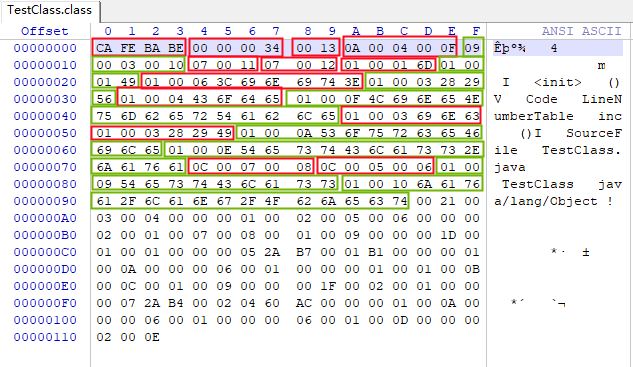
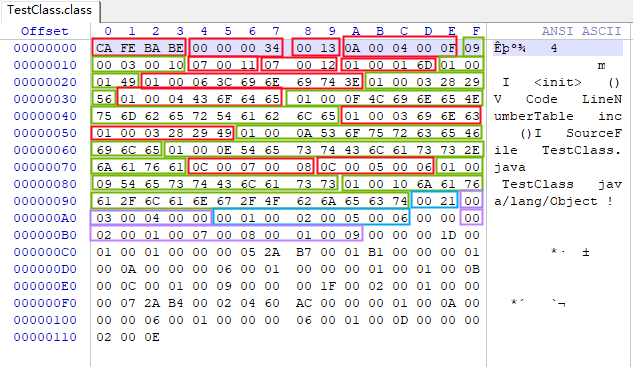
2022-11-01

Changed region(s): [[0.1201, 0.5095, 0.7804, 0.6594]]

diff --git a/读书笔记/《深入理解Java虚拟机》/TestClass.class分析.md b/读书笔记/《深入理解Java虚拟机》/TestClass.class分析.md
@@ -65,47 +65,46 @@ SourceFile: "TestClass.java"
 
 ## 分析
 
+### 魔数
+
 1. `CA FE BA BE`：魔数
 
-2. `00 00 00 34`：十进制数是52，也就是**JDK1.8**。说明这个文件可以被JDK1.6或是以上版本虚拟机执行的Class文件。
+### Class文件的版本
 
-3. `00 13`：即十进制19，常量池容量计数值。代表常量池中有19项常量。可以看到javap输出的文件内容中，Constant pool中一共有18项常量定义。在常量池中0索引项是预留项。
+1. `00 00 00 34`：十进制数是52，也就是**JDK1.8**。说明这个文件可以被JDK1.6或是以上版本虚拟机执行的Class文件。
 
+### 常量池
+
+1. `00 13`：即十进制19，常量池容量计数值。代表常量池中有19项常量。可以看到javap输出的文件内容中，Constant pool中一共有18项常量定义。在常量池中0索引项是预留项。
 4. `0A 00 04 00 0F`：常量池第1项，CONSTANT_Methodref_info类型。
 
    * `0A`：即十进制10，CONSTANT_Methodref_info类型的标志位。
    * `00 04`：指向声明方法的类描述符CONSTANT_Class_info的索引项，这里指向常量池第4项。
    * `00 0F`：指向名称及类型描述符CONSTANT_NameAndType的索引项，这里指向常量池第15项。
-
 5. `09 00 03 00 10`：常量池第2项，CONSTANT_Fieldref_info类型。
 
    * `09`：即十进制9，CONSTANT_Fieldref_info类型的标志位。
    * `00 03`：指向声明字段的类或者接口描述符CONSTANT_Class_info的索引项，这里指向常量池第3项。
    * `00 10`：指向字段描述符CONSTANT_NameAndType的索引项，这里指向常量池第16项。
-
 6. `07 00 11`：常量池第3项，CONSTANT_Class_info类型。
 
    * `07`：即十进制7，CONSTANT_Class_info类型的标志位。
    * `00 11`：指向全限定名常量项CONSTANT_Utf8_info的索引项，这里指向常量池第17项。
-
 7. `07 00 12`：常量池第4项，CONSTANT_Class_info类型。
 
    * `07`：即十进制7，CONSTANT_Class_info类型的标志位。
 
    * `00 12`：指向全限定名常量项CONSTANT_Utf8_info的索引项，这里指向常量池第18项。
-
 8. `01 00 01 6D`：常量池第5项，CONSTANT_Utf8_info类型。
 
    * `01`：即十进制1，CONSTANT_Utf8_info类型的标志位。
    * `00 01`：UTF-8编码的字符串占用的字节数。这里表示1个字节。
    * `6D`：0x6D，在**ASCII表**表中解释为：小写字母`m`。
-
 9. `01 00 01 49`：常量池第6项，CONSTANT_Utf8_info类型。
 
    * `01`：即十进制1，CONSTANT_Utf8_info类型的标志位。
    * `00 01`：UTF-8编码的字符串占用的字节数。这里表示1个字节。
    * `49`：0x49，在**ASCII表**表中解释为：大写字母`I`。
-
 10. `01 00 06 3C 69 6E 69 74 3E`：常量池第7项，CONSTANT_Utf8_info类型。
 
     * `01`：即十进制1，CONSTANT_Utf8_info类型的标志位。
@@ -117,7 +116,6 @@ SourceFile: "TestClass.java"
       * `69`，对应**ASCII表**表中解释为：小写字母`i`
       * `74`，对应**ASCII表**表中解释为：小写字母`t`
       * `3E`，对应**ASCII表**表中解释为：大于号`>`
-
 11. `01 00 03 28 29 56`：常量池第8项，CONSTANT_Utf8_info类型。
 
     * `01`：即十进制1，CONSTANT_Utf8_info类型的标志位。
@@ -126,7 +124,6 @@ SourceFile: "TestClass.java"
       * `28`：对应**ASCII表**表中解释为：开括号`(`
       * `29`：对应**ASCII表**表中解释为：闭括号`)`
       * `56`：对应**ASCII表**表中解释为：大写字母`V`
-
 12. `01 00 04 43 6F 64 65`：常量池第9项，CONSTANT_Utf8_info类型。
 
     * `01`：即十进制1，CONSTANT_Utf8_info类型的标志位。
@@ -136,7 +133,6 @@ SourceFile: "TestClass.java"
       2. `6F`：对应**ASCII表**表中解释为：小写字母`o`
       3. `64`：对应**ASCII表**表中解释为：小写字母`d`
       4. `65`：对应**ASCII表**表中解释为：小写字母`e`
-
 13. `01 00 0F 4C 69 6E 65 4E 75 6D 62 65 72 54 61 62 6C 65 `：常量池第10项，CONSTANT_Utf8_info类型。
 
     * `01`：即十进制1，CONSTANT_Utf8_info类型的标志位。
@@ -157,7 +153,6 @@ SourceFile: "TestClass.java"
       13. `62`：对应**ASCII表**表中解释为：小写字母`b`
       14. `6C`：对应**ASCII表**表中解释为：小写字母`l`
       15. `65`：对应**ASCII表**表中解释为：小写字母`e`
-    
 14. `01 00 03 69 6E 63`：常量池第11项，CONSTANT_Utf8_info类型。
 
     * `01`：即十进制1，CONSTANT_Utf8_info类型的标志位。
@@ -166,7 +161,6 @@ SourceFile: "TestClass.java"
       1. `69`：对应**ASCII表**表中解释为：小写字母`i`
       2. `6E`：对应**ASCII表**表中解释为：小写字母`n`
       3. `63`：对应**ASCII表**表中解释为：小写字母`c`
-
 15. `01 00 03 28 29 49`：常量池第12项，CONSTANT_Utf8_info类型。
 
     * `01`：即十进制1，CONSTANT_Utf8_info类型的标志位。
@@ -175,7 +169,6 @@ SourceFile: "TestClass.java"
       1. `28`：对应**ASCII表**表中解释为：开括号`(`
       2. `29`：对应**ASCII表**表中解释为：闭括号`)`
       3. `49`：对应**ASCII表**表中解释为：大写字母`I`
-
 16. `01 00 0A 53 6F 75 72 63 65 46 69 6C 65`：常量池第13项，CONSTANT_Utf8_info类型。
 
     * `01`：即十进制1，CONSTANT_Utf8_info类型的标志位。
@@ -191,9 +184,7 @@ SourceFile: "TestClass.java"
       8. `69`：对应**ASCII表**表中解释为：小写字母`i`
       9. `6C`：对应**ASCII表**表中解释为：小写字母`l`
       10. `65`：对应**ASCII表**表中解释为：小写字母`e`
-
 17. `01 00 0E 54 65 73 74 43 6C 61 73 73 2E 6A 61 76 61`：常量池第14项，CONSTANT_Utf8_info类型。
-
     * `01`：即十进制1，CONSTANT_Utf8_info类型的标志位。
     * `00 0E`：UTF-8编码的字符串占用的字节数。这里表示14个字节。
     * `54 65 73 74 43 6C 61 73 73 2E 6A 61 76 61`
@@ -211,18 +202,79 @@ SourceFile: "TestClass.java"
       12. `61`：对应**ASCII表**表中解释为：小写字母`a`
       13. `76`：对应**ASCII表**表中解释为：小写字母`v`
       14. `61`：对应**ASCII表**表中解释为：小写字母`a`
-
 18. `0C 00 07 00 08`：常量池第15项，CONSTANT_NameAndType_info类型。
-
     * `0C`：即十进制12，CONSTANT_NameAndType_info类型的标志位。
     * `00 07`：指向该字段或方法名称常量项CONSTANT_Utf8_info类型的索引，这里指向常量池第7项。。
     * `00 08`：指向该字段或方法描述符常量项CONSTANT_Utf8_info类型的索引，这里指向常量池第8项。
-
 19. `0C 00 05 00 06`：常量池第16项，CONSTANT_NameAndType_info类型。
 
     * `0C`：即十进制12，CONSTANT_NameAndType_info类型的标志位。
     * `00 05`：指向该字段或方法名称常量项CONSTANT_Utf8_info类型的索引，这里指向常量池第5项。。
     * `00 06`：指向该字段或方法描述符常量项CONSTANT_Utf8_info类型的索引，这里指向常量池第6项。
 
-    
+18. `01 00 09 54 65 73 74 43 6C 61 73 73`：常量池第17项，CONSTANT_Utf8_info类型。
+    * `01`：即十进制1，CONSTANT_Utf8_info类型的标志位。
+    * `00 09`：UTF-8编码的字符串占用的字节数。这里表示9个字节。
+    * `54 65 73 74 43 6C 61 73 73`
+      1. `54`：对应**ASCII表**表中解释为：大写字母`T`
+      2. `65`：对应**ASCII表**表中解释为：小写字母`e`
+      3. `73`：对应**ASCII表**表中解释为：小写字母`s`
+      4. `74`：对应**ASCII表**表中解释为：小写字母`t`
+      5. `43`：对应**ASCII表**表中解释为：大写字母`C`
+      6. `6C`：对应**ASCII表**表中解释为：小写字母`l`
+      7. `61`：对应**ASCII表**表中解释为：小写字母`a`
+      8. `73`：对应**ASCII表**表中解释为：小写字母`s`
+      9. `73`：对应**ASCII表**表中解释为：小写字母`s`
+19. `01 00 10 6A 61 76 61 2F 6C 61 6E 67 2F 4F 62 6A 65 63 74`：常量池第18项，CONSTANT_Utf8_info类型。
+    * `01`：即十进制1，CONSTANT_Utf8_info类型的标志位。
+    * `00 10`：UTF-8编码的字符串占用的字节数。这里表示16个字节。
+    * `6A 61 76 61 2F 6C 61 6E 67 2F 4F 62 6A 65 63 74`
+      1. `6A`：对应**ASCII表**表中解释为：小写字母`j`
+      2. `61`：对应**ASCII表**表中解释为：小写字母`a`
+      3. `76`：对应**ASCII表**表中解释为：小写字母`v`
+      4. `61`：对应**ASCII表**表中解释为：小写字母`a`
+      5. `2F`：对应**ASCII表**表中解释为：斜杠`/`
+      6. `6C`：对应**ASCII表**表中解释为：小写字母`l`
+      7. `61`：对应**ASCII表**表中解释为：小写字母`a`
+      8. `6E`：对应**ASCII表**表中解释为：小写字母`n`
+      9. `67`：对应**ASCII表**表中解释为：小写字母`g`
+      10. `2F`：对应**ASCII表**表中解释为：斜杠`/`
+      11. `4F`：对应**ASCII表**表中解释为：大写字母`O`
+      12. `62`：对应**ASCII表**表中解释为：小写字母`b`
+      13. `6A`：对应**ASCII表**表中解释为：小写字母`j`
+      14. `65`：对应**ASCII表**表中解释为：小写字母`e`
+      15. `63`：对应**ASCII表**表中解释为：小写字母`c`
+      16. `74`：对应**ASCII表**表中解释为：小写字母`t`
+
+### 访问标志
+
+1. `00 21`：访问标志，这个类是支持的访问标识是ACC_PUBLIC和ACC_SUPER，所以access_flags的计算值为：0x0001|0x0020=0x0021。
+
+### 类索引
+
+1. `00 03`：类名，指向常量池中的索引值为3，类型为CONSTANT_Utf8_info的常量，也就是`TestClass`。
+
+### 父类索引
+
+1. `00 04`：父类的全限定名
+
+### 接口索引集合
+
+1. `00 00`：实现接口的数量，这里没有实现接口所以计数器值为0。
+
+### 字段表集合
+
+1. `00 01`：第一个u2类型的数据为字段表集合的容量计数器，fields_count。这里表示这个类只声明了一个字段表数据，也就是说这个类只有一个字段。
+2. `00 02`：字段访问标志，因为这个字段是private的，所以标志名称为ACC_PRIVATE的字段，它的标志值是0x0002。
+3. `00 05`：字段的简单名称，是指向常量池中索引值类型为5的CONSTANT_Utf8_info常量，也就是`m`。
+4. `00 06`：字段的描述符，用来描述字段的数据类型。是指向常量池中索引值类型为**6**的CONSTANT_Utf8_info常量，也就是`I`，含义是`int`类型。
+
+### 方法表集合
+
+1. `00 02`：第一个u2类型的数据为方法表集合的容量计数器，methods_count。这里代表集合有两个方法，分别是编译器添加的实例构造器`<init>`和源码中的方法`inc()`。
+2. `00 01`：
+3. `00 07`：
+4. `00 08`：
+5. `00 01`：
+6. `00 09`：
 

diff --git a/读书笔记/《深入理解Java虚拟机》/第6章 类文件结构.md b/读书笔记/《深入理解Java虚拟机》/第6章 类文件结构.md
@@ -76,17 +76,19 @@
 ### 6.3.4 类索引、父类索引、接口索引集合
 
 * 类索引：
-  * 用于确定这个类的全限定名。
-  * 是一个u2类型的索引值，指向常量池中类型为CONSTANT_Utf8_info常量的索引值。
+  * 用于确定这个类的类名称。
+  * 是一个u2类型的索引值，是指向常量池中类型为CONSTANT_Utf8_info常量的索引值。
 * 父类索引：
   * 用于确定这个类的父类的全限定名。
-  * 是一个u2类型的索引值，指向常量池中类型为CONSTANT_Utf8_info常量的索引值。
+  * 是一个u2类型的索引值，是指向常量池中类型为CONSTANT_Utf8_info常量的索引值。
 * 接口索引集合：
   * 用于描述这个类实现了哪些接口。
   * 一组u2类型数据的集合。
   * 第一项的u2类型数据为接口计数器。
 
 ### 6.3.5 字段表集合
+
+* 字段表集合的第一个u2类型的数据是 字段表集合的计数器容量，即字段表集合中包含字段表结构的数量。
 
 * 字段表
 
@@ -98,8 +100,8 @@
   | 类型                     | 名称             | 数量             | 中文名         | 作用                                                         |
   | ------------------------ | ---------------- | ---------------- | -------------- | ------------------------------------------------------------ |
   | u2                       | access_flags     | 1                | 字段访问标志   | 标识字段的作用域：<br />1. public, private, protect修饰符<br />2. static修饰符，是实例变量还是类变量<br />3. final修饰符，可变性<br />4. volatile修饰符，并发可见性，是否强制从主内存读写<br />5. transient修饰符，是否可被序列化<br />6. 字段是否是编译器自动生成的<br />7. 字段是否为enum |
-  | u2                       | name_index       | 1                | 字段的简单名称 | 字段的名称，例如private String username的简单名称为username  |
-  | u2                       | descriptor_index | 1                | 字段的描述符   | 用来描述字段的数据类型。<br />![](../../笔记图片/29-深入理解Java虚拟机/JVM描述符标识字段含义.png) |
+  | u2                       | name_index       | 1                | 字段的简单名称 | 字段的名称，例如private String username的简单名称为username。是指向常量池中类型为CONSTANT_Utf8_info常量的一个索引值。 |
+  | u2                       | descriptor_index | 1                | 字段的描述符   | 用来描述字段的数据类型。是指向常量池中类型为CONSTANT_Utf8_info常量的一个索引值。<br />![](../../笔记图片/29-深入理解Java虚拟机/JVM描述符标识字段含义.png) |
   | u2（可选项）             | attributes_count | 1                | 属性表计数器   | 表示该字段在属性表集合中的属性数量                           |
   | attribute_info（可选项） | attributes       | attributes_count | 属性名称索引   | 指向常量池中常量的索引值                                     |
 
@@ -107,7 +109,7 @@
 
 ### 6.3.6 方法表集合
 
-* 方法表集合的第一个u2类型的数据是 方法表集合中的计数器容量，即方法表集合中包含方法表结构的数量
+* 方法表集合的第一个u2类型的数据是 方法表集合中的计数器容量，即方法表集合中包含方法表结构的数量。
 
 * 方法表结构
 
